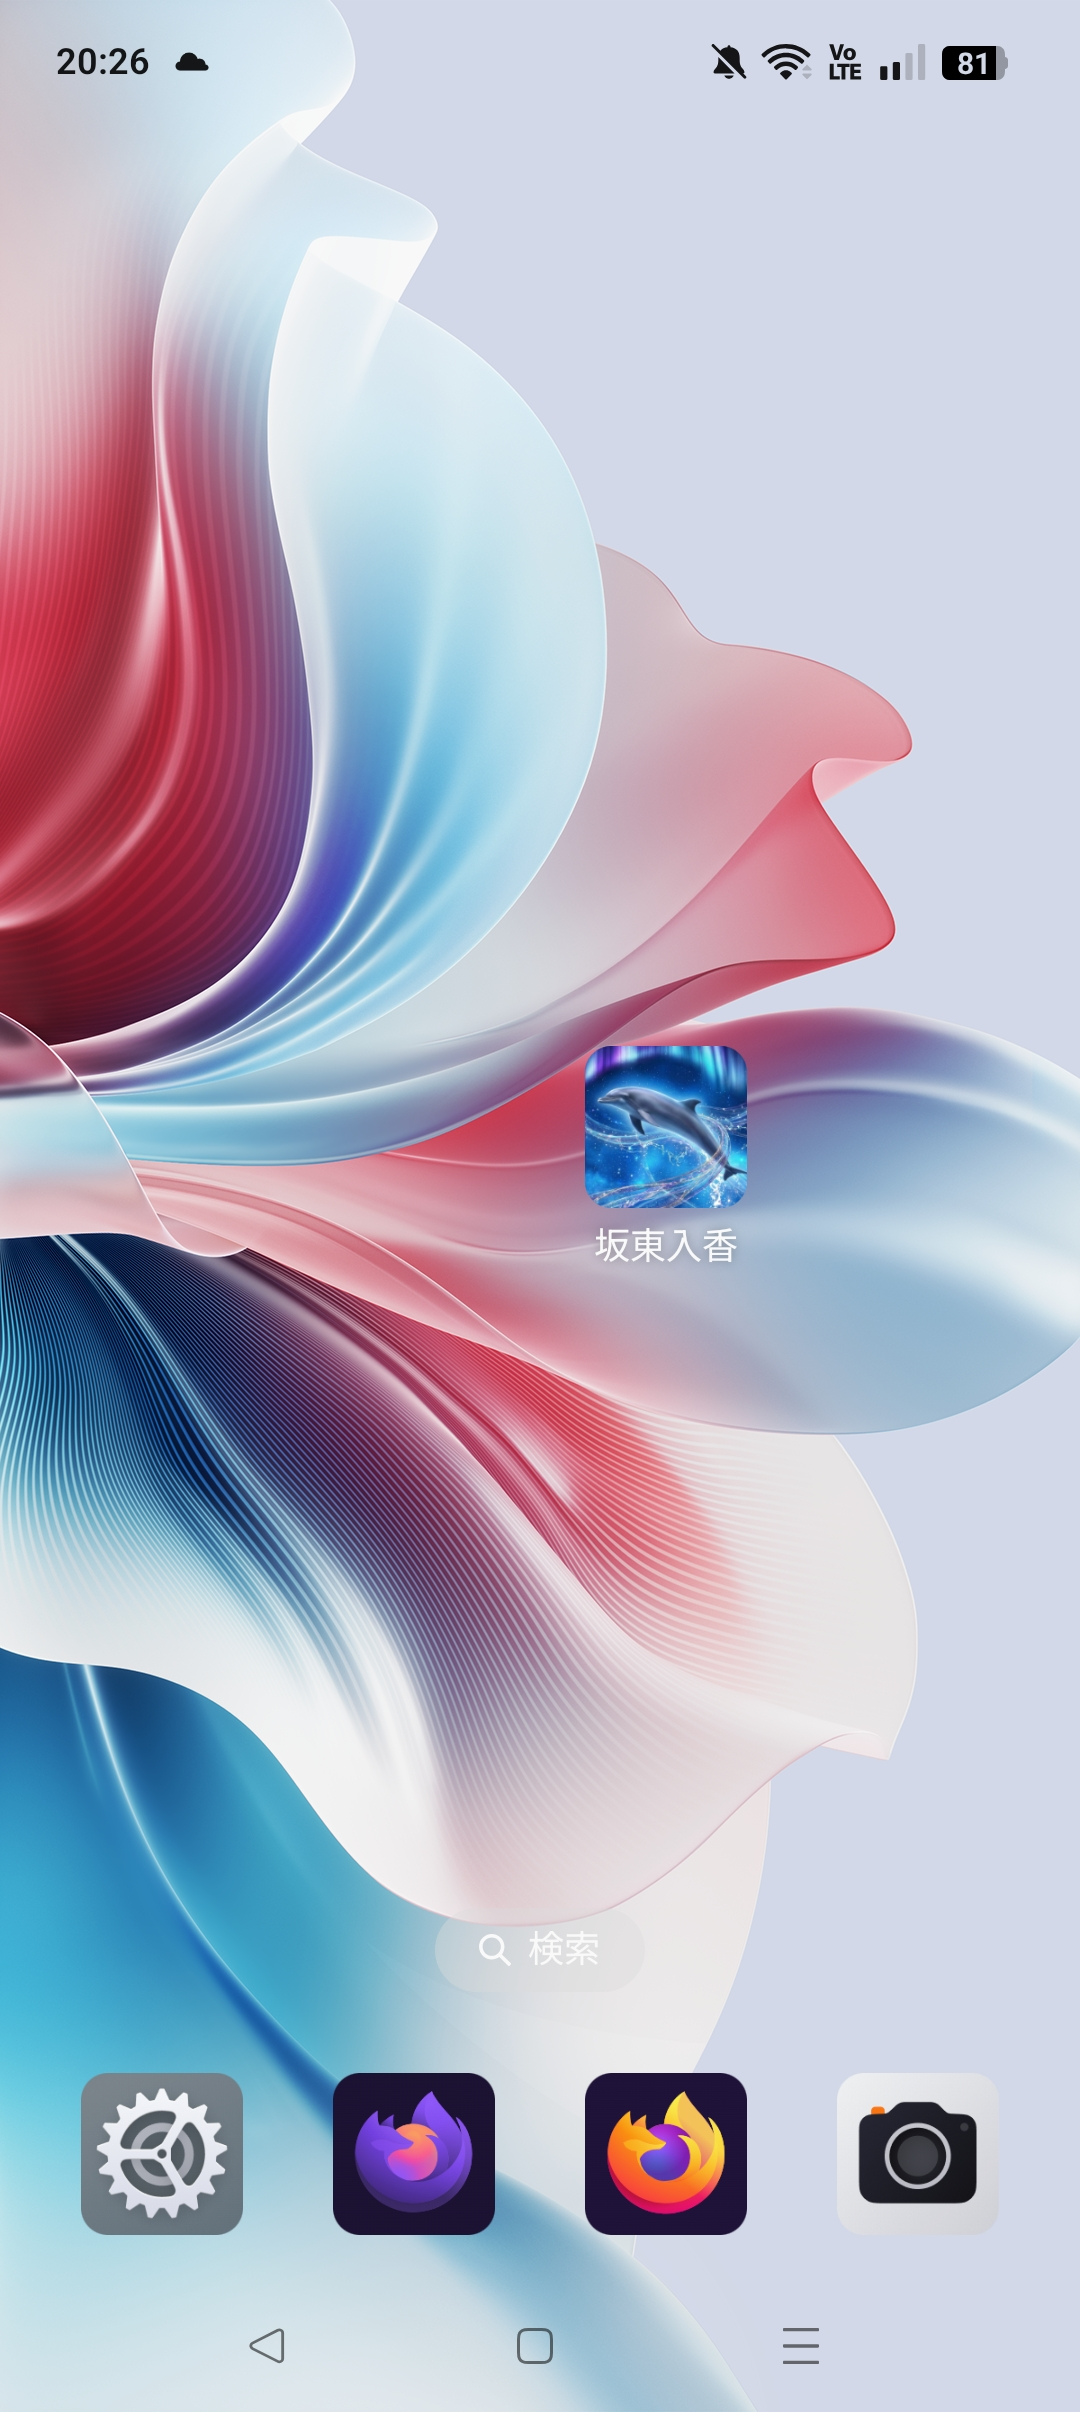
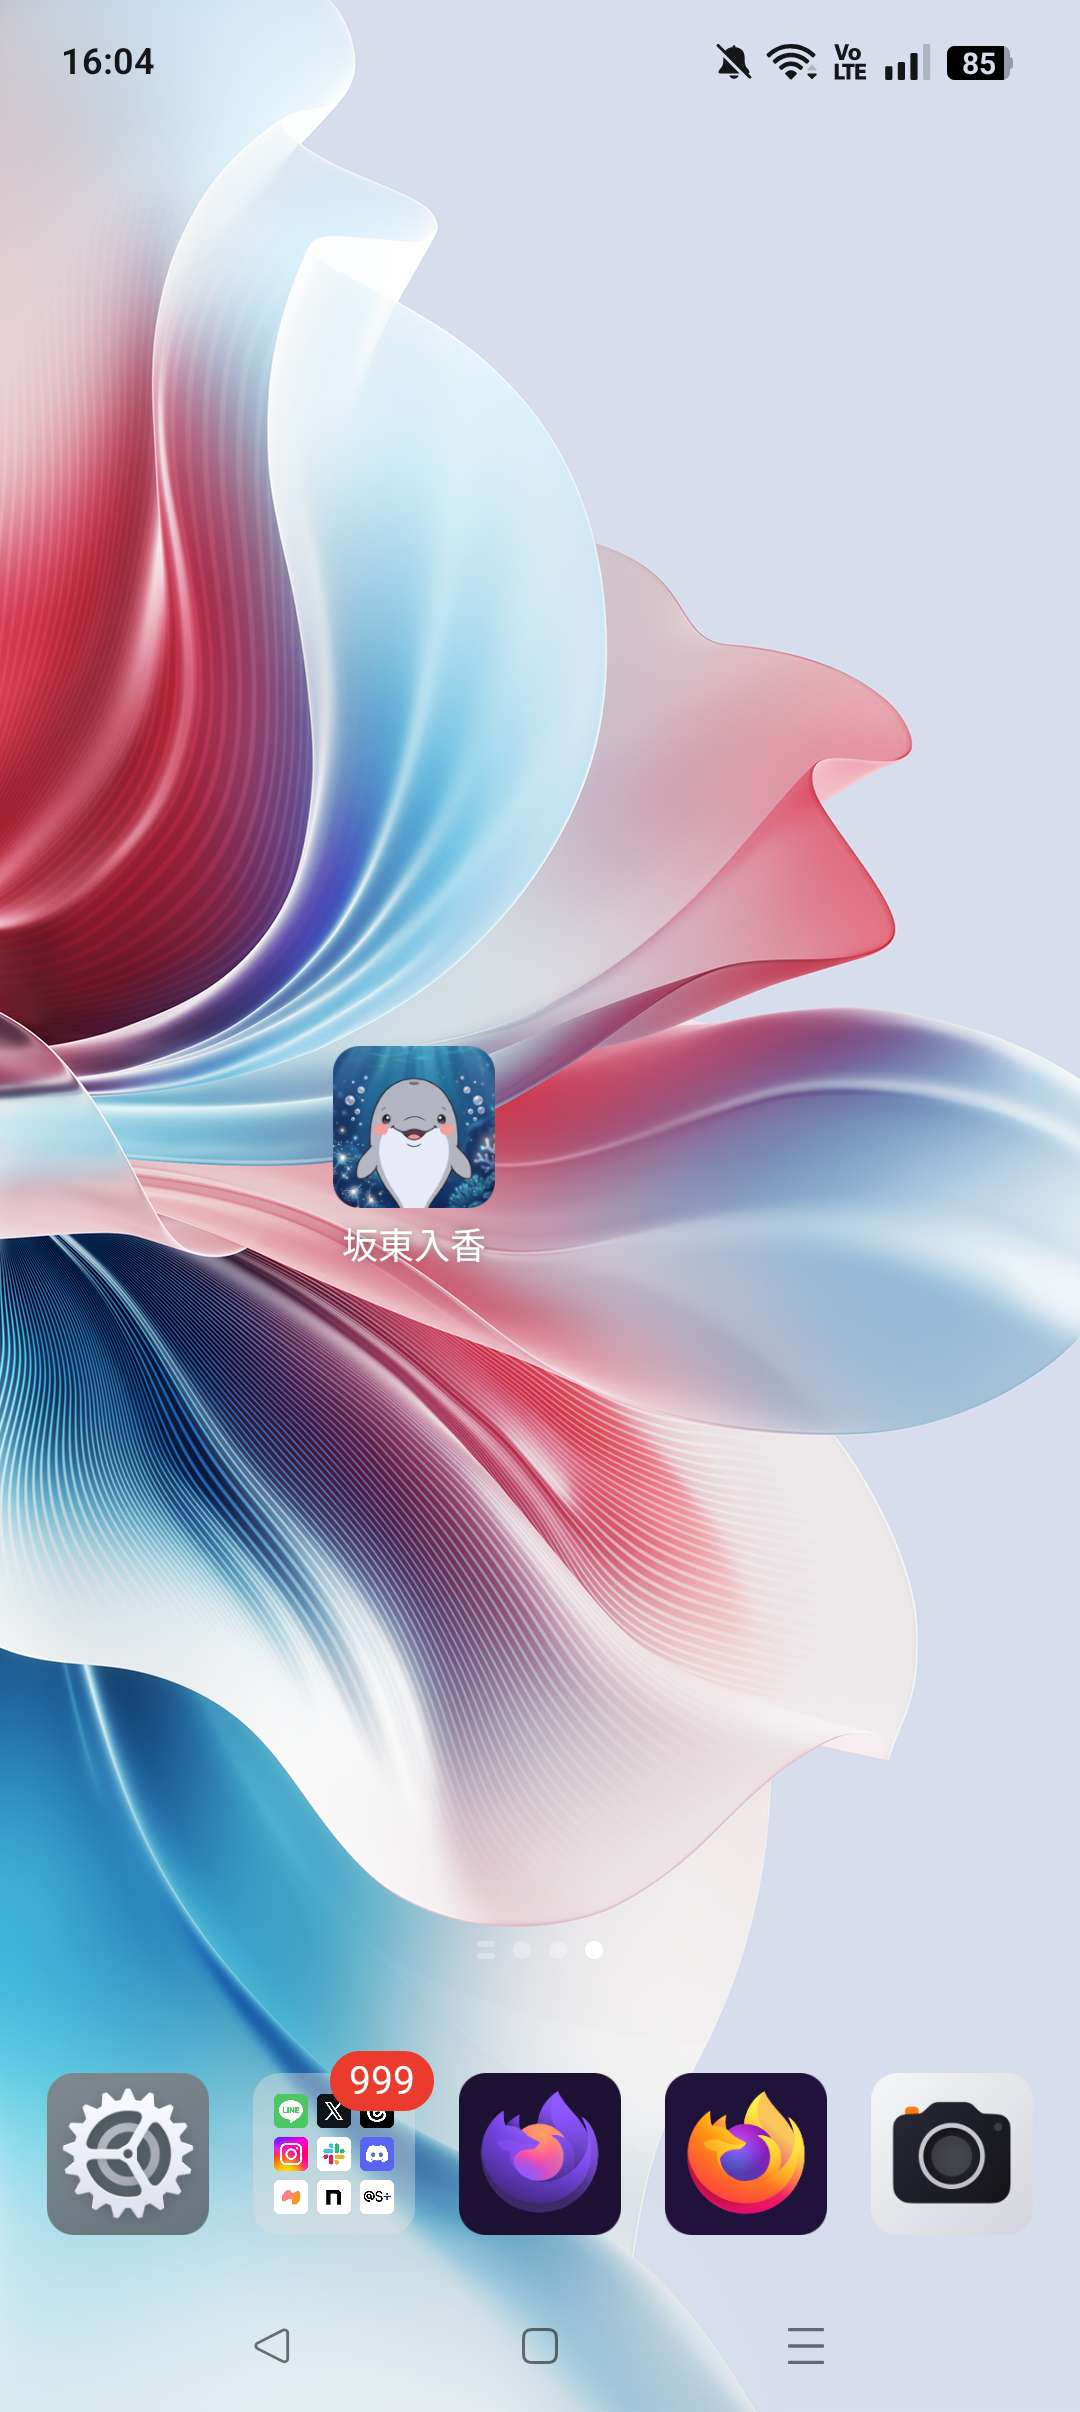
バージョンアップによる画像，マニュアルの修正

diff --git a/install.html b/install.html
@@ -41,6 +41,10 @@
                     <p><a href="index.html#download">こちらをクリック</a>（ダウンロードサイトに飛びます）</p>
                     <img src="images/install01_apkDownload.PNG" alt="apk ファイルのダウンロード方法" width="700" loading="lazy">
 
+                    <p>Google Drive からダウンロードすることも可能です。リンクは，<a href="index.html#download">ダウンロードサイト</a>に掲載しています。</p>
+                    <p>インストールファイルをタップすることで，インストールが開始します。</p>
+                    <img src="images/GoogleDriveInstall.PNG" alt="Google Drive からのインストール方法" width="700" loading="lazy">
+
 
                     <h3>2. インストールの実行</h3>
                     <p>ダウンロードした apk ファイルをファイルマネージャーなどで探し，ファイルをタップしてインストールを実行してください。</p>
@@ -71,15 +75,52 @@
                     <img src="images/install05_popupAfterInstall.PNG" alt="初回起動時のポップアップ" width="700" loading="lazy">
 
                     <h3>3. 初回起動時の設定</h3>
-                    <p>初期状態では，通知の送信およびニュースの自動読み込みが無効化されています。</p>
-                    <p>水族館の最新ニュースを定期的に受信するためには，通知と自動読み込みの有効化が必要です。</p>
-                    <p>右上の「...」をタップして，オーバーフローメニューを表示し，「設定」をタップしてください。</p>
-                    <p>「通知を有効にする」をタップし，スイッチをオンにしてください。</p>
-                    <p>「読み込み頻度」をタップし，頻度を選択してください。1時間程度で構いません。お好みで調整してください。</p>
-                    <p>自動読み込みとは，指定した頻度で水族館のウェブページをスクレイピングし，データベースに格納する処理です。
-                        通知と自動読み込みを有効にすることで，水族館の最新情報を定期的に受け取ることができます。
+                    <p>本日・明日のイベント通知：本日および翌日のイベント通知の有無を設定します。イベントはカレンダーで追加できます</p>
+                    
+                    <h4>イベント通知時刻</h4>
+                    <p>イベントの通知時刻を設定します。</p>
+
+                    <h4>ニュースの自動読み込み</h4>
+                    <p>
+                        ニュースの自動読み込みの有無を設定します。
+                        オンにすると自動的にウェブページのスクレイピングを行い，ニュースを取得します。
                     </p>
-                    <img src="images/install06_SettingAfterInstall.PNG" alt="初回起動後の設定" width="700" loading="lazy">
+
+                    <h4>読み込み頻度</h4>
+                    <p>
+                        ニュースの自動読み込み頻度を設定します。1, 2時間程度にすることをお勧めします。
+                        高頻度すると，場合によっては，1か月あたり GB オーダーのデータ通信が行われる可能性があります。
+                    </p>
+
+                    <h4>モバイルデータ通信</h4>
+                    <p>
+                        モバイルデータ通信時に自動読み込みを実行するかどうかを設定します。
+                        モバイルデータの通信量を抑えたい場合はオフにしてください。
+                    </p>
+
+                    <h4>新規ニュース通知</h4>
+                    <p>
+                        自動読み込み実行時に，新規ニュースがあった場合に通知するかどうかを設定します。
+                        自動読み込み後，即通知します。
+                    </p>
+
+                    <img src="images/Setting_1.jpg" alt="初回起動後の設定" width="400" loading="lazy">
+                    
+                    <h4>起動時ポップアップ</h4>
+                    <p>
+                        本日の豆知識のポップアップを表示有無を選択します
+                        ポップアップは日付変更後，初回起動時に表示します
+                        本日の豆知識以外のポップアップの制御はできません
+                    </p>
+
+                    <h4>開発者モード</h4>
+                    <p>
+                        開発者モードを有効化します。
+                        基本的に，開発者の指示なく有効化しないでください。
+                        開発者モードはアプリの再起動時に無効化します。
+                    </p>
+                    
+                    <img src="images/Setting_2.jpg" alt="初回起動後の設定" width="400" loading="lazy">
                 </div>
                 <p class="back-to-top"><a href="#table-of-contents">上に戻る ↑</a></p>
             </section>
@@ -93,7 +134,7 @@
                     <img src="images/install07_Scraping.PNG" alt="手動でのニュース読み込み情報" width="700" loading="lazy">
 
                     <h3>2. 通知</h3>
-                    <p>水族館の最新ニュースを受信した際に，通知を受け取ることができます。</p>
+                    <p>園館の最新ニュースを受信した際に，通知を受け取ることができます。</p>
                     <p>通知の送信の許可および，設定画面での通知，自動読み込みを有効化しておく必要があります。</p>
                     <img src="images/BackgroundNotification.jpg" alt="最新ニュース取得時の通知の送信" width="400" loading="lazy">
 
@@ -116,14 +157,36 @@
                         登録した来館登録は，消去できません。
                         位置情報の照合をせずに，来館登録を行うことはできません。</p>
 
-                    <p>来館記録は，水族館名と期間で絞り込むことができます。
+                    <p>来館記録は，園館名と期間で絞り込むことができます。
                         絞り込みの条件に合致する記録が，直近の記録から順に表示されます。</p>
 
                     <img src="images/VisitRecordStandardView.jpg" alt="来館記録の通常表示" width="400" loading="lazy">
 
-                    <p>「簡易」スイッチをオンにすると，指定期間内の水族館ごとの来館数が降順で表示されます。</p>
+                    <p>「簡易」スイッチをオンにすると，指定期間内の園館ごとの来館数が降順で表示されます。</p>
 
                     <img src="images/VisitRecordSimpleView.jpg" alt="来館記録の簡易表示" width="400" loading="lazy">
+
+                    <h3>6. フォロー設定</h3>
+                    <p>園館のニュースの取得・表示の設定を行う画面です。</p>
+                    <h4>取得</h4>
+                    <p>
+                        ウェブページをスクレイピングし，お知らせの取得（読み込み）を実行するかどうかを設定します。
+                        自動読み込み，および手動での読み込みの両方が制御されます。
+                        お知らせの取得が必要ない園館をオフにすることで，データ通信量の削減を行うことができます。
+                    </p>
+                    <h4>表示</h4>
+                    <p>
+                        ホーム画面にお知らせを表示するかを設定します。
+                        非表示にしたい園館をオフにすることで，見たい園館のみホーム画面で閲覧することができます。
+                    </p>
+                    <p>
+                        取得と表示は別の制御となります。
+                    </p>
+                    <p>
+                        表示オフ，取得オンの場合は自動読み込みは取得によって制御されるため，新規お知らせの通知があるが，一覧には表示されない事象が発生する場合があります。
+                    </p>
+
+                    <img src="images/FollowSetting.jpg" alt="フォロー設定の画面" width="400" loading="lazy">
 
                 </div>
                 <p class="back-to-top"><a href="#table-of-contents">上に戻る ↑</a></p>

diff --git a/index.html b/index.html
@@ -219,16 +219,17 @@
                         詳細なアップデート方法は，<a href="install.html">インストールマニュアル</a>をご確認ください。
                     </dd>
 
-                    <dt>Q: 通知やストレージへのアクセス許可は何に使いますか？</dt>
+                    <dt>Q: 通知やストレージ，位置情報へのアクセス許可は何に使いますか？</dt>
                     <dd>
                         A: 「通知」はニュースの自動読み込み機能で新たなお知らせを取得した際，ユーザーへ通知するために使用します。<br>
-                        「ストレージ」は，データベースのエクスポート・インポート（バックアップ）機能のために使用します。
+                        「ストレージ」は，データベースのエクスポート・インポート（バックアップ）機能のために使用します。<br>
+                        「位置情報」は，来館登録機能で利用するためのものです。
                     </dd>
                 </dl>
 
                 <h3>3. データの取り扱いとプライバシー</h3>
                 <dl>
-                    <dt>Q: カレンダーの予定や個人情報は開発者に見られますか？</dt>
+                    <dt>Q: カレンダーの予定や情報取得したお知らせは開発者に見られますか？</dt>
                     <dd>
                         A: いいえ，公開されません。データはユーザーの端末内（スマホのストレージ）にのみ保存され，外部サーバーへ送信されることはありません。<br>
                     </dd>
@@ -247,12 +248,12 @@
                     <dd>
                         A: 各公式サイトから情報を取得していますが，反映にタイムラグが生じる場合があります。<br>
                         重要な情報については，必ず各館の公式サイトにて確認を行ってください。
-                        また，特定館がスクレイピングされない場合はサイト仕様変更の可能性があるため，ご連絡いただけると助かります。
+                        また，特定館がスクレイピングされない場合はサイト仕様変更の可能性があるため，開発者にご連絡いただけると助かります。
                     </dd>
 
                     <dt>Q: 「本日の豆知識」の根拠は何ですか？　内容が違う気がします。</dt>
                     <dd>
-                        A: 豆知識は汎用的な AI モデルが学習した知識に基づき生成されています。
+                        A: 豆知識は汎用的な AI モデルが学習した知識に基づき生成しています。
                         学術論文を引用しているわけではないため，不正確な情報が含まれる場合もあります。
                         学術的な用途ではなく，あくまで読み物としてお楽しみください。
                     </dd>
@@ -269,7 +270,7 @@
 
                 <h3>5. トラブルシューティング・ご要望</h3>
                 <dl>
-                    <dt>Q: 通知が届きません。</dt>
+                    <dt>Q: 通知が届きません。自動読み込みが実行されません。</dt>
                     <dd>
                         A: Android システムの「通知の許可」「バッテリー最適化の無効化」「バックグラウンドアクティビティの許可」が必要です。<br>
                         設定方法は機種によりますが，基本的には「設定」または「アプリアイコンの長押し ＞ アプリ情報」から変更いただけます。
@@ -282,10 +283,11 @@
                         改善しない場合は，環境（Android バージョン等）および事象が発生した際の操作を開発者へご連絡ください。
                     </dd>
 
-                    <dt>Q: バグが見つかりました，スクレイピング対象を拡充してください，機能の提案があります</dt>
+                    <dt>Q: バグが見つかりました，スクレイピング対象，来館登録対象を拡充してください，機能の提案があります</dt>
                     <dd>
                         A: <a href="https://github.com/irukabando/irubabandoApp/issues" target="_blank">GitHub の Issues</a>，もしくは開発者の <a href="https://x.com/sendaiperson" target="_blank">X (@sendaiperson)</a> までお気軽にお送りください。<br>
                         技術的に可能であれば，積極的に対応いたします。
+                        来館登録の対象の追加はすぐ対応いたします。スクレイピング対象の追加は，対象の公式サイトの仕様によっては対応が難しい場合があります。
                     </dd>
 
                 </dl>
